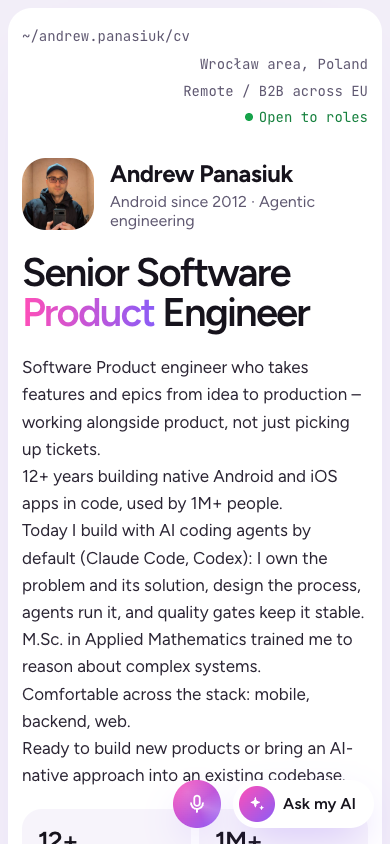
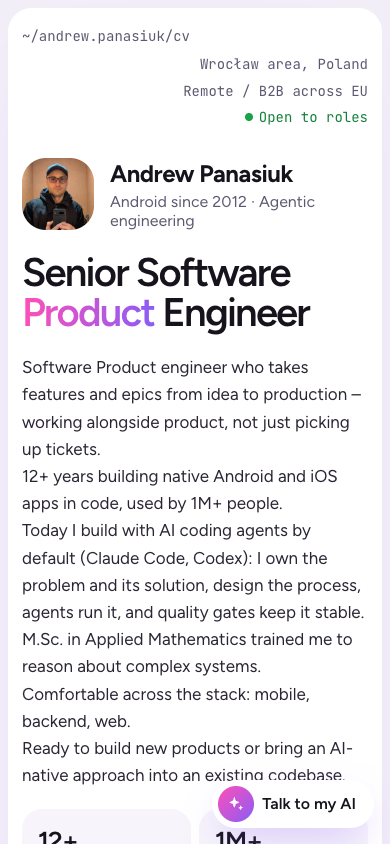
CV-190 Voice v2 mock: one launcher, Call in the composer, typing mid-call, one chat toggle
Claude-Session: https://claude.ai/code/session_01S5NSLGhfmrp7rZPx1ynmMe

Changed region(s): [[0.4308, 0.9242, 0.8, 0.9858]]

diff --git a/docs/design/voice/mock.html b/docs/design/voice/mock.html
@@ -2,9 +2,9 @@
 <!--
   Static mock of the voice call panel (docs/design/voice/SPEC.md). Not product code.
   Open directly in a browser. Query params:
-    state = launcher | connecting | listening (default) | speaking | muted | tool | confirm |
-            warning | chat | minimized | ended | error-denied | error-failed | error-busy |
-            error-ratelimited | error-dropped | error-callcap | error-monthly | offline
+    state = launcher | text | connecting | listening (default) | speaking | muted | typed | tool |
+            confirm | warning | chat | minimized | ended | error-denied | error-failed |
+            error-busy | error-ratelimited | error-dropped | error-callcap | error-monthly | offline
   Column layout at >= 1024 px wide, phone sheet below 600 px. The page behind is a screenshot of
   production (assets/voice_backdrop_*): for the column states it was taken with the page already
   reserving the column, so the narrowed page is exact.
@@ -36,6 +36,12 @@
         --voice-caption-lines: 3;
         --voice-pill-end-size: var(--chat-badge-size);
         --voice-ended-pill-duration: 4s;
+        /* v2 (CV-190) */
+        --chat-dock-duration: 300ms;
+        --chat-dock-exit-duration: 250ms;
+        --chat-motion-exit-easing: cubic-bezier(0.4, 0, 1, 1);
+        --voice-chat-toggle-width: 112px;
+        --voice-orb-travel-duration: 300ms;
       }
 
       *,
@@ -105,6 +111,9 @@
       .i-send {
         --src: url(../../../src/shared/chat/assets/chat_icon_send.svg);
       }
+      .i-call {
+        --src: url(assets/voice_icon_call.svg);
+      }
       .i-minimize {
         --src: url(assets/voice_icon_minimize.svg);
       }
@@ -116,7 +125,7 @@
         color: var(--chat-ink-2);
       }
 
-      /* ---- Launcher row (unchanged): [mic] [Ask my AI] ---- */
+      /* ---- Launcher: one pill, "Talk to my AI" ---- */
       .launcher {
         position: fixed;
         right: var(--space-4);
@@ -152,48 +161,6 @@
         background: var(--gradient-brand-tile);
         border-radius: 50%;
       }
-      .mic {
-        position: relative;
-        isolation: isolate;
-        overflow: hidden;
-        flex: none;
-        width: var(--voice-mic-size);
-        height: var(--voice-mic-size);
-        display: grid;
-        place-items: center;
-        padding: 0;
-        color: var(--color-on-accent);
-        background: var(--gradient-brand-tile);
-        border: 0;
-        border-radius: 50%;
-        box-shadow: var(--shadow-launcher);
-      }
-      .mic .icon {
-        width: var(--voice-mic-icon-size);
-        height: var(--voice-mic-icon-size);
-      }
-      .mic::before {
-        content: '';
-        position: absolute;
-        inset: -25%;
-        z-index: -1;
-        background: conic-gradient(
-          from 200deg,
-          transparent 0 55%,
-          rgba(255, 255, 255, 0.22) 70%,
-          transparent 85%
-        );
-        animation: spin var(--voice-mic-sheen) linear infinite;
-      }
-      .mic::after {
-        content: '';
-        position: absolute;
-        inset: 0;
-        z-index: -1;
-        border-radius: 50%;
-        background: radial-gradient(circle at 30% 25%, rgba(255, 255, 255, 0.18), transparent 55%);
-      }
-
       /* ---- The column: fixed on the right, the page reserves its width ---- */
       .column {
         position: fixed;
@@ -538,15 +505,7 @@
         margin-top: var(--space-1);
       }
 
-      /* ---- Controls ---- */
-      .controls {
-        flex: none;
-        display: flex;
-        align-items: center;
-        justify-content: center;
-        gap: var(--space-3);
-        padding: var(--space-4) var(--space-6) var(--space-6);
-      }
+      /* ---- Call controls: 56 high, the composer field's height ---- */
       .round,
       .ctl {
         flex: none;
@@ -584,10 +543,21 @@
         color: var(--color-ink-4);
         background: transparent;
       }
-      .ctl.end {
+      /* End: the one white control on the dark card. */
+      .round.end {
         color: var(--color-ink);
         background: var(--color-card);
         border-color: transparent;
+      }
+      /* Call: the composer's primary action while no call runs (ConfirmationCard's Confirm look). */
+      .ctl.call {
+        color: var(--color-on-accent);
+        background: var(--gradient-brand);
+        border-color: transparent;
+      }
+      /* Show chat / Hide chat: one toggle, same place in both views, fixed width. */
+      .toggle {
+        min-width: var(--voice-chat-toggle-width);
       }
 
       /* ---- The chat in the column (during and after the call) ---- */
@@ -665,30 +635,7 @@
         height: var(--chat-action-icon-size);
         color: var(--color-dark-number);
       }
-      /* The call bar replaces the composer while the call is live. */
-      .callbar {
-        flex: none;
-        display: flex;
-        align-items: center;
-        gap: var(--space-3);
-        padding: var(--space-3) var(--space-5) var(--space-4);
-        border-top: var(--border-card) solid var(--color-dark-line);
-      }
-      .callbar .note {
-        flex: 1;
-        min-width: 0;
-      }
-      .callbar .round,
-      .callbar .ctl {
-        height: var(--chat-control-size);
-      }
-      .callbar .round {
-        width: var(--chat-control-size);
-      }
-      .callbar .icon {
-        width: var(--chat-icon-size);
-        height: var(--chat-icon-size);
-      }
+      /* The composer: [Call] or [End][Mute] left of the field; the same row in both call views. */
       .composer {
         flex: none;
         display: flex;
@@ -697,22 +644,42 @@
         padding: var(--space-3) var(--space-5) var(--space-4);
         border-top: var(--border-card) solid var(--color-dark-line);
       }
+      .composer-row {
+        display: flex;
+        align-items: flex-end;
+        gap: var(--space-2);
+      }
       .field {
+        flex: 1;
+        min-width: 0;
         display: flex;
         align-items: flex-end;
         gap: var(--space-2);
         padding: 5px 5px 5px 15px;
         background: var(--chat-fill);
-        border: var(--border-card) solid var(--color-dark-number);
-        box-shadow: 0 0 0 var(--border-card) var(--color-dark-number);
+        border: var(--border-card) solid var(--color-ink-4);
         border-radius: var(--radius-card);
+      }
+      .field.focus {
+        border-color: var(--color-dark-number);
+        box-shadow: 0 0 0 var(--border-card) var(--color-dark-number);
       }
       .field span {
         flex: 1;
+        min-width: 0;
         padding: 11px 0;
         font-size: var(--chat-text-size);
         line-height: var(--chat-text-line-height);
         color: var(--chat-ink-2);
+        white-space: nowrap;
+        overflow: hidden;
+        text-overflow: ellipsis;
+      }
+      .field span.draft {
+        color: var(--color-dark-ink);
+      }
+      .field.off {
+        opacity: 0.5;
       }
       .send {
         flex: none;
@@ -724,6 +691,10 @@
         background: var(--chat-fill-hover);
         border: 0;
         border-radius: 50%;
+      }
+      .send.on {
+        color: var(--color-on-accent);
+        background: var(--gradient-brand-tile);
       }
 
       /* ---- Minimized: the call pill in the launcher's place ---- */
@@ -816,13 +787,12 @@
         .action {
           top: var(--space-2);
         }
-        .controls {
-          padding: var(--space-2) var(--space-4) calc(var(--space-4) + env(safe-area-inset-bottom));
-        }
         .list,
-        .callbar,
         .composer {
           padding-inline: var(--space-4);
+        }
+        .composer {
+          padding-bottom: calc(var(--space-4) + env(safe-area-inset-bottom));
         }
       }
     </style>
@@ -854,18 +824,30 @@
         'aria-expanded="true"',
         'aria-expanded="true" disabled',
       );
-      const callHeader = (sub, action = minimizeBtn) =>
-        `<header class="header"><span class="badge" aria-hidden="true">${icon('sparkle')}</span><div class="titles"><h2 class="title">Voice call</h2>${sub}</div>${action}</header>`;
+      // Show chat / Hide chat: one toggle, the same place in both views (left of minimize).
+      const toggle = (open) =>
+        `<button type="button" class="btn-secondary toggle">${open ? 'Hide chat' : 'Show chat'}</button>`;
+      const callHeader = (sub, actions = toggle(false) + minimizeBtn) =>
+        `<header class="header"><span class="badge" aria-hidden="true">${icon('sparkle')}</span><div class="titles"><h2 class="title">Voice call</h2>${sub}</div>${actions}</header>`;
 
-      const controls = ({ muted = false, disabled = false } = {}) =>
-        `<div class="controls">
-          <button type="button" class="round" aria-label="${muted ? 'Unmute microphone' : 'Mute microphone'}" aria-pressed="${muted}" ${disabled ? 'disabled' : ''}>${icon(muted ? 'mic-off' : 'mic')}</button>
-          <button type="button" class="ctl">${icon('chat')}Show chat</button>
-          <button type="button" class="ctl end" aria-label="End call">${icon('end')}End</button>
-        </div>`;
+      // The composer row. Text: [Call] + field. Call (both views): [End][Mute] + field, no disclaimer.
+      const field = ({
+        text = 'Type a message…',
+        draft = false,
+        focus = false,
+        off = false,
+      } = {}) =>
+        `<div class="field${focus ? ' focus' : ''}${off ? ' off' : ''}"><span${draft ? ' class="draft"' : ''}>${text}</span><button type="button" class="send${draft ? ' on' : ''}" aria-label="Send" ${draft ? '' : 'disabled'}>${icon('send')}</button></div>`;
+      const callBar = ({ muted = false, connecting = false, ...f } = {}) =>
+        `<div class="composer"><div class="composer-row">
+          <button type="button" class="round end" aria-label="End call">${icon('end')}</button>
+          <button type="button" class="round" aria-label="${muted ? 'Unmute microphone' : 'Mute microphone'}" aria-pressed="${muted}" ${connecting ? 'disabled' : ''}>${icon(muted ? 'mic-off' : 'mic')}</button>
+          ${field({ off: connecting, ...f })}
+        </div></div>`;
+      const textComposer = `<div class="composer"><div class="composer-row"><button type="button" class="ctl call" aria-label="Call my AI">${icon('call')}Call</button>${field({ text: '…or type a question' })}</div><p class="caption">Answers are AI-generated and may contain mistakes.</p></div>`;
 
-      const panel = (cls, header, stage, ctrls = controls()) =>
-        `<aside class="column ${cls}" aria-label="Voice call with Andrew’s AI">${header}<div class="stage">${stage}</div>${ctrls}</aside>`;
+      const panel = (cls, header, stage, bottom = callBar()) =>
+        `<aside class="column ${cls}" aria-label="Voice call with Andrew’s AI">${header}<div class="stage">${stage}</div>${bottom}</aside>`;
 
       const errorCard = (glyph, title, body, primary, secondary) =>
         `<div class="card err" role="alert"><div class="card-head"><span class="glyph">${icon(glyph)}</span><p class="card-title">${title}</p></div><p class="card-body">${body}</p><div class="card-buttons"><button type="button" class="btn-secondary btn-primary">${primary}</button><button type="button" class="btn-secondary">${secondary}</button></div></div>`;
@@ -878,27 +860,36 @@
         `<li class="row assistant"><div class="bubble">${t}</div>${extra}</li>`;
       const chip = (t) => `<p class="chip caption">${icon('sparkle')}${t}</p>`;
       const divider = (t, mic) =>
-        `<li class="divider caption" role="separator"><span>${mic ? icon('mic') : ''}${t}</span></li>`;
-      const callLines =
+        `<li class="divider caption" role="separator"><span>${mic ? icon('call') : ''}${t}</span></li>`;
+      const textLines =
         visitor('Is he open to new roles?') +
         assistant(
           'Yes. He’s open to senior product and Android roles, remote or B2B across the EU.',
-        ) +
+        );
+      const callLines =
+        textLines +
         divider('Voice call', true) +
         visitor('What did he build at Transcenda?') +
         assistant(
           'At Transcenda Andrew shipped three apps: SpotOn, Cync and August Home, each with a million-plus users.',
           chip('Showing Transcenda'),
         ) +
-        visitor('Which one was the hardest?');
+        visitor('Which one was the hardest?') +
+        assistant('SpotOn: a point-of-sale and kiosk app with strict offline rules.');
+      // A typed line during the call: an ordinary visitor row of the call.
+      const typedLine = visitor('Does he use Kotlin Multiplatform?');
+
+      const chatHeader = `<header class="header"><span class="badge" aria-hidden="true">${icon('sparkle')}</span><div class="titles"><h2 class="title">Ask about Andrew</h2><p class="caption">AI assistant · answers from this page</p></div>${closeBtn.replace('Close voice chat', 'Close chat')}</header>`;
 
       const states = {
+        text: () =>
+          `<aside class="column chat-view" aria-label="Ask about Andrew">${chatHeader}<ol class="list" aria-label="Conversation">${textLines}</ol>${textComposer}</aside>`,
         connecting: () =>
           panel(
             'connecting',
-            callHeader('', minimizeOff),
+            callHeader('', toggle(false) + minimizeOff),
             `${orb()}<p class="status">Connecting…</p><p class="say visitor">Allow the microphone when your browser asks.</p><p class="privacy caption">Calls run on ElevenLabs. Voice and text share one history. AI can make mistakes.</p>`,
-            controls({ disabled: true }),
+            callBar({ connecting: true }),
           ),
         listening: () =>
           panel(
@@ -917,7 +908,14 @@
             'muted',
             callHeader(timer(64)),
             `${orb()}<p class="status">Mic off</p><p class="say visitor">Your microphone is off. Unmute to talk.</p>`,
-            controls({ muted: true }),
+            callBar({ muted: true }),
+          ),
+        typed: () =>
+          panel(
+            'listening',
+            callHeader(timer(97)),
+            `${orb()}<p class="status">Listening</p><p class="say visitor">Does he use Kotlin Multiplatform?</p>`,
+            callBar({ text: 'And Compose?', draft: true, focus: true }),
           ),
         tool: () =>
           panel(
@@ -939,20 +937,16 @@
           ),
         chat: () =>
           `<aside class="column chat-view speaking" aria-label="Voice call with Andrew’s AI">
-            <header class="header">${orb(true)}<div class="titles"><h2 class="title">Voice call</h2><p class="sub caption"><span class="live">Speaking</span> · <b>1:12</b></p></div><button type="button" class="btn-secondary">Hide chat</button>${minimizeBtn}</header>
-            <ol class="list" aria-label="Conversation">${callLines}${assistant('SpotOn: a point-of-sale and kiosk app with strict offline rules.')}</ol>
-            <div class="callbar"><button type="button" class="round" aria-label="Mute microphone" aria-pressed="false">${icon('mic')}</button><p class="note caption">Read-only during the call. End it to type.</p><button type="button" class="ctl end" aria-label="End call">${icon('end')}End</button></div>
+            <header class="header">${orb(true)}<div class="titles"><h2 class="title">Voice call</h2><p class="sub caption"><span class="live">Speaking</span> · <b>1:12</b></p></div>${toggle(true)}${minimizeBtn}</header>
+            <ol class="list" aria-label="Conversation">${callLines}${typedLine}${assistant('Yes: he shipped a shared Kotlin Multiplatform core for the August Home apps.')}</ol>
+            ${callBar({ focus: true })}
           </aside>`,
         ended: () =>
-          `<aside class="column chat-view" aria-label="Ask about Andrew">
-            <header class="header"><span class="badge" aria-hidden="true">${icon('sparkle')}</span><div class="titles"><h2 class="title">Ask about Andrew</h2><p class="caption">AI assistant · answers from this page</p></div>${closeBtn.replace('Close voice chat', 'Close chat')}</header>
-            <ol class="list" aria-label="Conversation">${callLines}${assistant('SpotOn: a point-of-sale and kiosk app with strict offline rules.')}${divider('Call ended · 1:24')}</ol>
-            <div class="composer"><div class="field"><span>Ask a question…</span><button type="button" class="icon-btn" aria-label="Talk to my AI by voice">${icon('mic')}</button><button type="button" class="send" aria-label="Send" disabled>${icon('send')}</button></div><p class="caption">Answers are AI-generated and may contain mistakes.</p></div>
-          </aside>`,
+          `<aside class="column chat-view" aria-label="Ask about Andrew">${chatHeader}<ol class="list" aria-label="Conversation">${callLines}${divider('Call ended · 1:24')}</ol>${textComposer}</aside>`,
         minimized: () =>
           `<div class="callpill listening" role="group" aria-label="Voice call"><button type="button" class="expand" aria-label="Open the call panel" aria-expanded="false">${orb(true)}<span class="state">Listening</span><span class="time">0:42</span></button><button type="button" class="hang" aria-label="End call">${icon('end')}</button></div>`,
         launcher: () =>
-          `<div class="launcher"><button type="button" class="mic" aria-label="Talk to my AI by voice">${icon('mic')}</button><button type="button" class="pill"><span class="badge" aria-hidden="true">${icon('sparkle')}</span>Ask my AI</button></div>`,
+          `<div class="launcher"><button type="button" class="pill"><span class="badge" aria-hidden="true">${icon('sparkle')}</span>Talk to my AI</button></div>`,
         'error-denied': () =>
           errorPanel(
             'mic-off',
